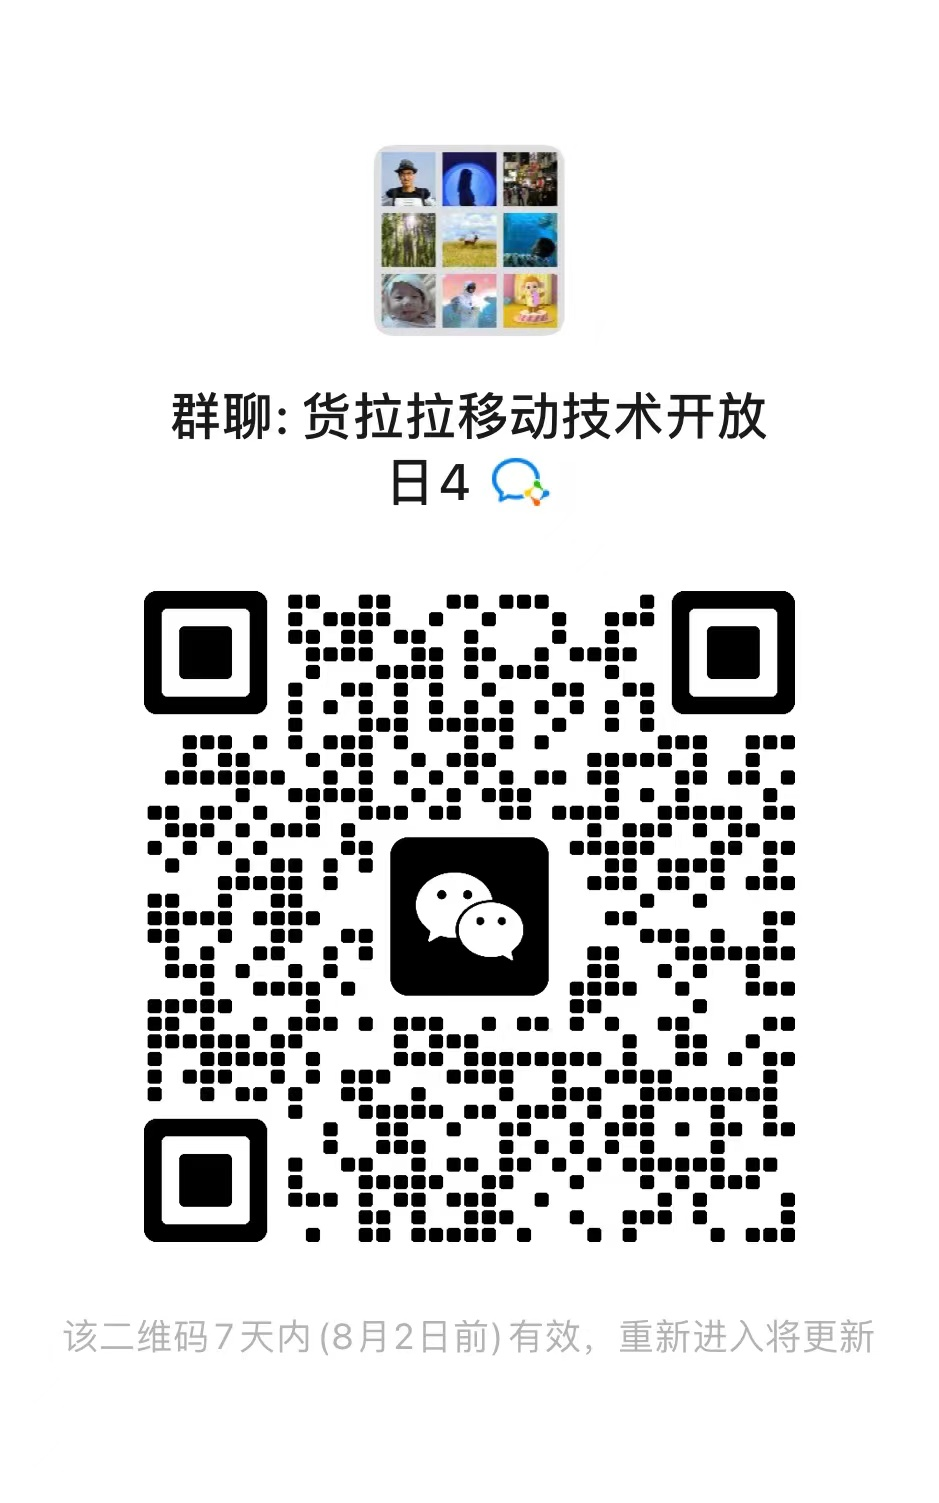
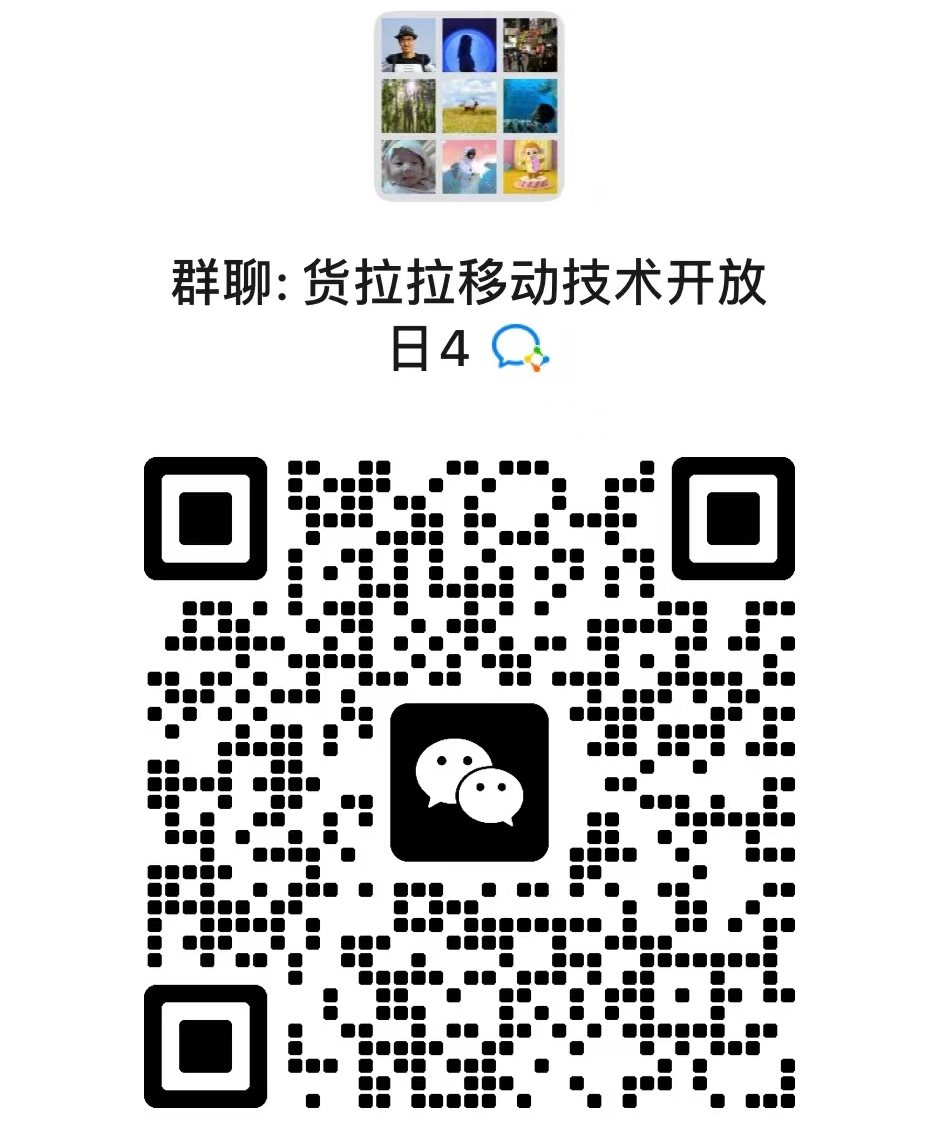
update

Changed region(s): [[0.0618, 0.3717, 0.9265, 0.9912], [0.1853, 0.0, 0.8339, 0.3407]]

diff --git a/openday/wx/index.html b/openday/wx/index.html
@@ -19,14 +19,14 @@
 	</head>
 	<body>
 		<div class="only-pc" align="center">
-			<img src="./openday_wx4.jpg" height="100%"><br>
-			如无法加入，可加下方微信拉你进群（备注技术开放日）<br><br>
-			<img src="./kymjs_wx.jpg" width="50%">
+			<img src="./openday_wx4.jpg" height="70%"><br>
+			<font color="#AA0000">如无法加入，可加下方微信拉你进群（备注技术开放日）</font><br><br><br>
+			<img src="./kymjs_wx.jpg" width="40%">
 		</div>
 		<div class="only-phone" align="center">
-			<img src="./openday_wx4.jpg" width="100%"><br>
-			如无法加入，可加下方微信拉你进群（备注技术开放日）<br><br>
-			<img src="./kymjs_wx.jpg" width="50%">
+			<img src="./openday_wx4.jpg" width="80%"><br>
+			<font color="#AA0000">如无法加入，可加下方微信拉你进群（备注技术开放日）</font><br><br><br>
+			<img src="./kymjs_wx.jpg" width="80%">
 		</div>
 	</body>
 </html>
